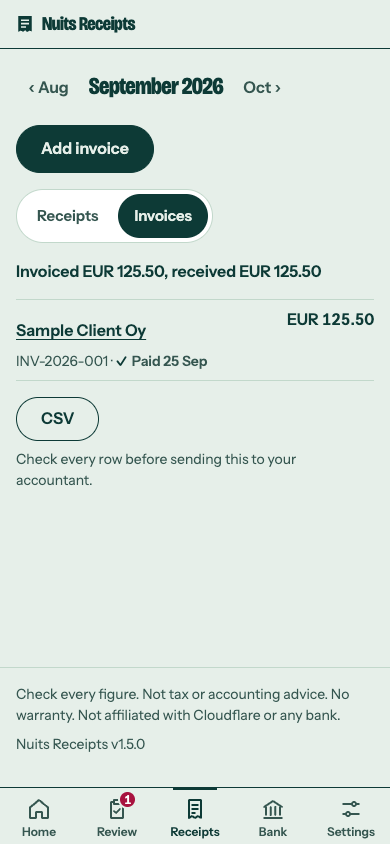
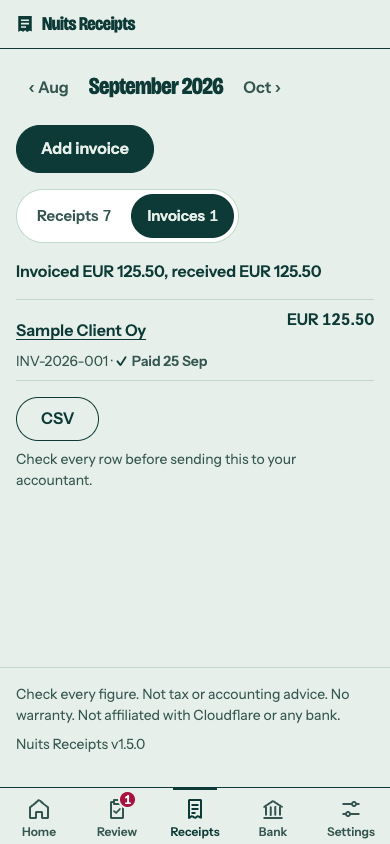
test(journeys): follow the new arrival, tabs and Add button, record the run

Changed region(s): [[0.2769, 0.2156, 0.6154, 0.3081]]

diff --git a/docs/app-v3/after/RESULTS.md b/docs/app-v3/after/RESULTS.md
@@ -9,14 +9,14 @@ Instance: fresh local database, mock AI, 2026-10-24.
 | d. First run to first receipt read | 2 | 1 | 2 | 0 | 0 | 0 |
 | a. Mail arrives, every receipt approved | 6 | 9 | 5 | 0 | 0 | 0 |
 | b. Bank statement imported, every payment settled | 6 | 1 | 6 | 0 | 0 | 0 |
-| e. Sales invoice added, money in matched | 6 | 1 | 5 | 0 | 0 | 0 |
-| c. September closed and marked sent | 4 | 0 | 3 | 0 | 0 | 0 |
+| e. Sales invoice added, money in matched | 5 | 1 | 4 | 0 | 0 | 0 |
+| c. September closed and marked sent | 3 | 0 | 2 | 0 | 0 | 0 |
 
 ### d. First run to first receipt read
 
 Screens: `/` → `/receipts/:id?done=uploaded`
 
-- Welcome screen says: Welcome Business Done Email Done Accountant Set up Receipt (PDF or photo) Upload Add several Or forward to receipts@example.com
+- Welcome screen says: Welcome Done: Business Done Done: Email Done To do: Accountant Set up Receipt (PDF or photo) Upload Add several Or forward to receipts@example.com
 - Landed on /receipts/:id with title "Sample Cloud Lantern Oy"
 - No accountant step on Home after the first receipt.
 
@@ -24,7 +24,7 @@ Screens: `/` → `/receipts/:id?done=uploaded`
 
 Screens: `/` → `/review` → `/receipts/:id` → `/receipts/:id?done=approved` → `/review?done=approvedLast&month=2026-09&step=import`
 
-- Home on arrival (current month): ‹ Sep October 2026 Nov › Check Nothing yet Match No statement Send Nothing yet Add receipts
+- Home on arrival (oldest month not sent): ‹ Aug September 2026 Oct › September isn't sent yet. 2 receipts need you. · Go to October Next: Check 2 to check, 1 undated To do: Match No statement To do: Send Not ready Check receipts Download anyw
 - Review lists 3 receipts.
 - Approved 3: Sample Coffee Corner, Sample Train Line, Sample Print Shop. Ended on /review.
 
@@ -39,16 +39,16 @@ Screens: `/payments` → `/import` → `/imports/csv` → `/payments?month=2026-
 
 ### e. Sales invoice added, money in matched
 
-Screens: `/receipts` → `/invoices` → `/add?kind=sales` → `/payments` → `/payments?month=2026-09`
+Screens: `/receipts` → `/invoices` → `/add?kind=sales` → `/payments`
 
 - After upload: /add says "Add receipts or invoices 1 of 1 added. They are being read now. What are these? Receipts and bills Things the business paid for Invoices you sent Money clients "
 - Money-in row: Sample Client Oy EUR 125.50 25 Sep Matched automatically Invoice More
 
 ### c. September closed and marked sent
 
-Screens: `/` → `/?month=2026-09` → `/?month=2026-09&done=sent`
+Screens: `/` → `/?month=2026-09&done=sent&at=2026-10-24T15%3A35%3A34.531Z`
 
-- Home for September: ‹ Aug September 2026 Oct › Check Done Match Done Send Ready Spent EUR 250.22 Download ZIP (4 KB) Mark as sent CSV Check every row before sending this to your accountant. In the ZIP By part 6 receipts,
+- Home on arrival (September, the oldest month not sent): ‹ Aug September 2026 Oct › September isn't sent yet. It is ready to send. · Go to October Done: Check Done Done: Match Done Next: Send Ready Spent EUR 250.22 Download ZIP (4 KB) CSV Check every row be
 - Downloaded receipts-2026-09.zip
 
 ## Screens
@@ -57,14 +57,16 @@ Screens: `/` → `/?month=2026-09` → `/?month=2026-09&done=sent`
 | --- | --- | --- | --- |
 | [receipt-flagged](screens/receipt-flagged-1440.png) | 1440 | 1.52 | 0 |
 | [receipt-flagged](screens/receipt-flagged-390.png) | 390 | 2.09 | 0 |
-| [home-sep](screens/home-sep-1440.png) | 1440 | 1.16 | 0 |
-| [home-sep](screens/home-sep-390.png) | 390 | 1.37 | 0 |
+| [home-sep](screens/home-sep-1440.png) | 1440 | 1.26 | 0 |
+| [home-sep](screens/home-sep-390.png) | 390 | 1.41 | 0 |
+| [home-arrival](screens/home-arrival-1440.png) | 1440 | 1.31 | 0 |
+| [home-arrival](screens/home-arrival-390.png) | 390 | 1.49 | 0 |
 | [home-oct](screens/home-oct-1440.png) | 1440 | 1 | 0 |
 | [home-oct](screens/home-oct-390.png) | 390 | 1 | 0 |
 | [review](screens/review-1440.png) | 1440 | 1 | 0 |
 | [review](screens/review-390.png) | 390 | 1 | 0 |
-| [receipts](screens/receipts-1440.png) | 1440 | 1.47 | 0 |
-| [receipts](screens/receipts-390.png) | 390 | 1.61 | 0 |
+| [receipts](screens/receipts-1440.png) | 1440 | 1.38 | 0 |
+| [receipts](screens/receipts-390.png) | 390 | 1.52 | 0 |
 | [receipt-ready](screens/receipt-ready-1440.png) | 1440 | 1 | 0 |
 | [receipt-ready](screens/receipt-ready-390.png) | 390 | 1.16 | 0 |
 | [invoice-paid](screens/invoice-paid-1440.png) | 1440 | 1.06 | 0 |
